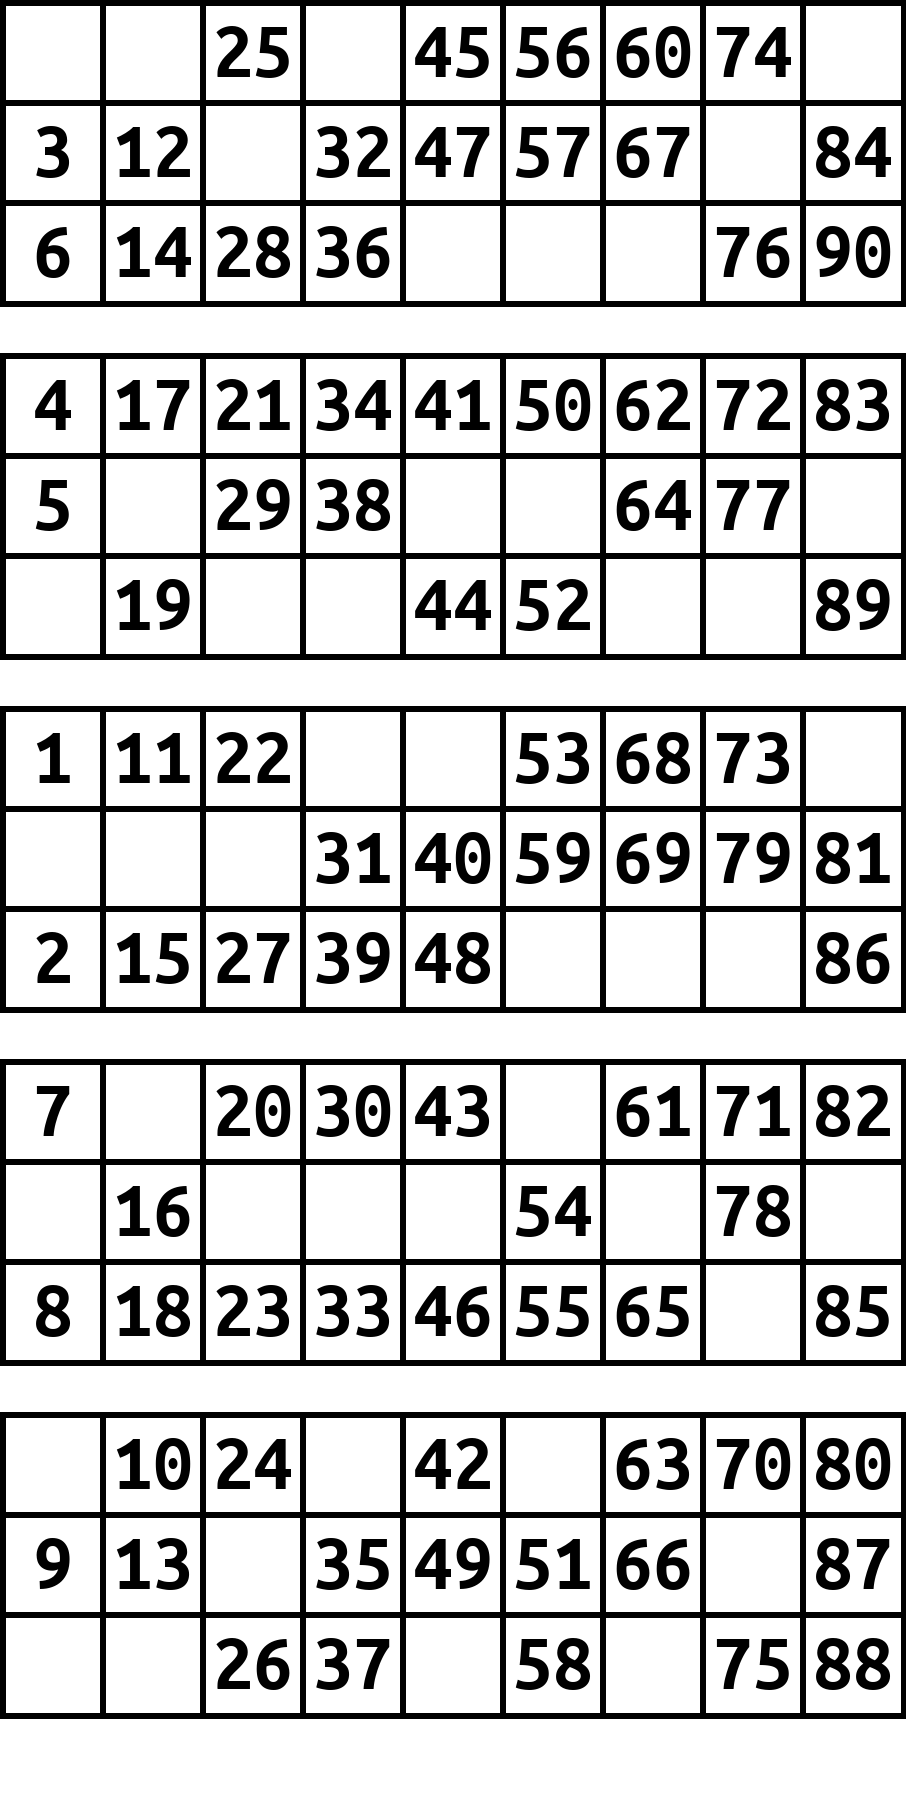
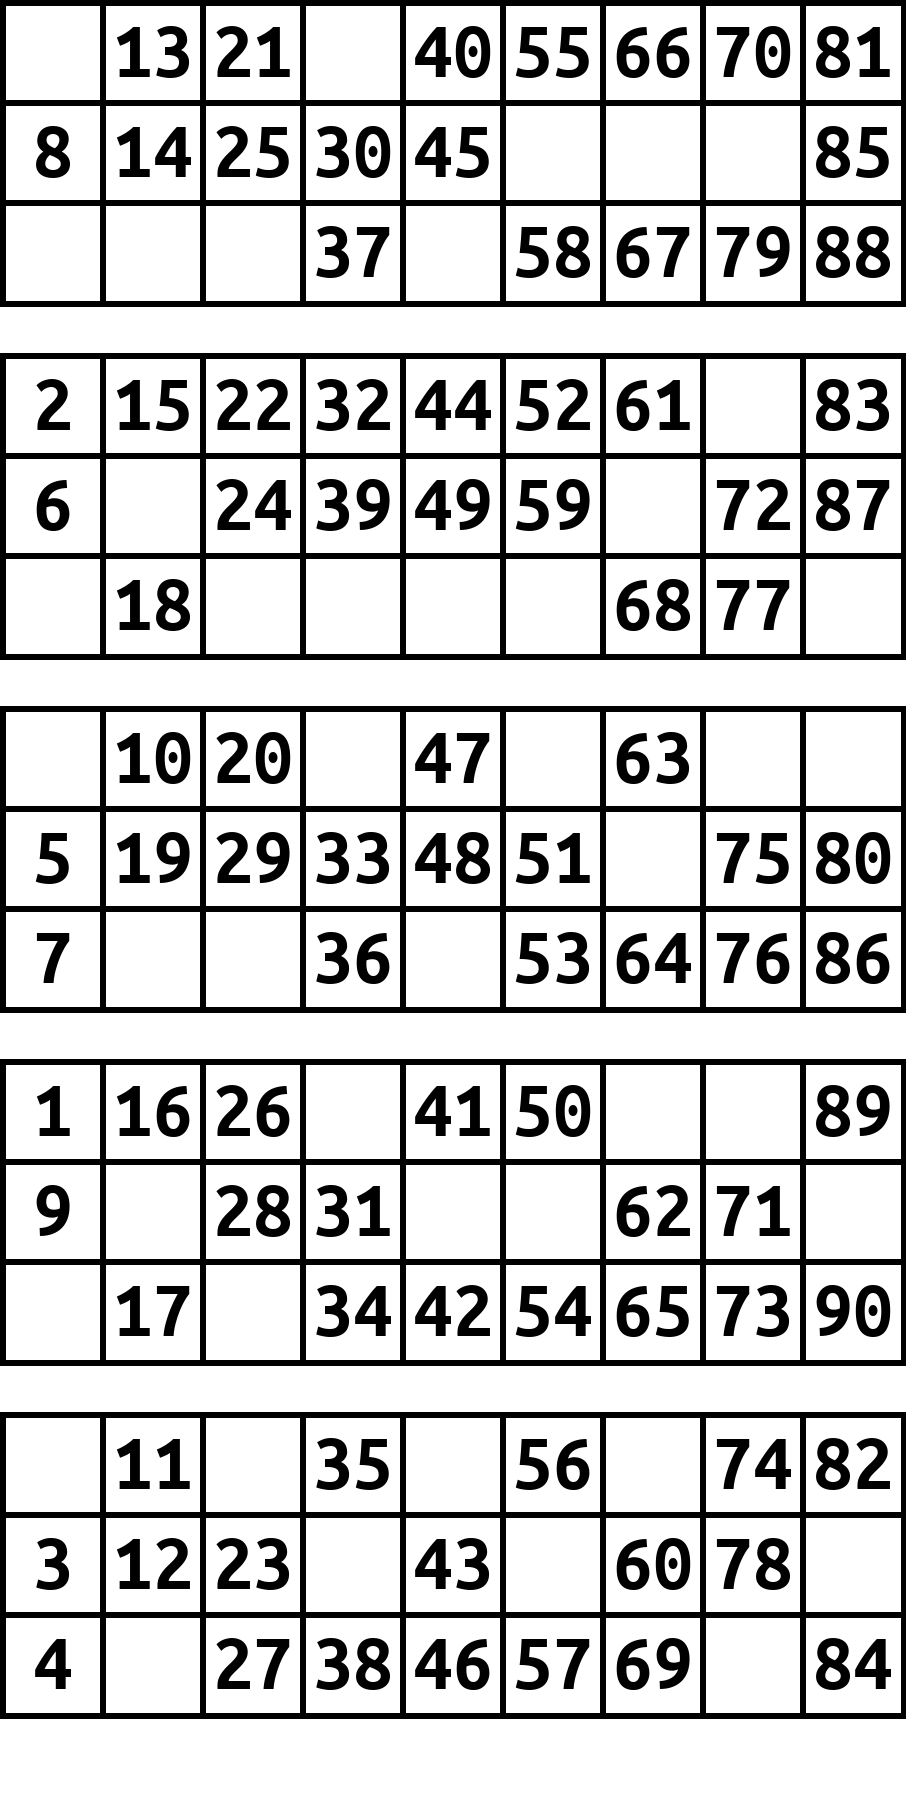
fixed Buggs
The one number in the first column is now in the same rectangle as the three numbers in the last column.

The last poblem remains the spacing

diff --git a/Bingo.py b/Bingo.py
@@ -1,5 +1,6 @@
 from PIL import Image, ImageDraw, ImageFont
 import numpy as np
+from random import shuffle
 
 #%%
 
@@ -32,11 +33,21 @@ def ZettelGanz(mult:int, bingoNumber:int, rand:int = 1):
         if i == 0:
             currNums = np.split(numberList[i][1:],4)
             currNums.append(np.array(numberList[i][0]))
+            shuffle(currNums)
+            for ind, element in enumerate(currNums):
+                if element.size == 1:
+                    specialIndex = ind
         elif i == 8:
             currNums = np.split(numberList[i][3:],4)
             currNums.append(np.array(numberList[i][0:3]))
+            shuffle(currNums)
+            for ind, element in enumerate(currNums):
+                if (element.size == 3) and (ind != specialIndex):
+                    currNums[ind], currNums[specialIndex] = currNums[
+                        specialIndex], currNums[ind]
         else:
             currNums = np.split(numberList[i],5)
+            shuffle(currNums)
         
         for ii in range(5):
             blank = rng.choice(3, 3-currNums[ii].size, False)
